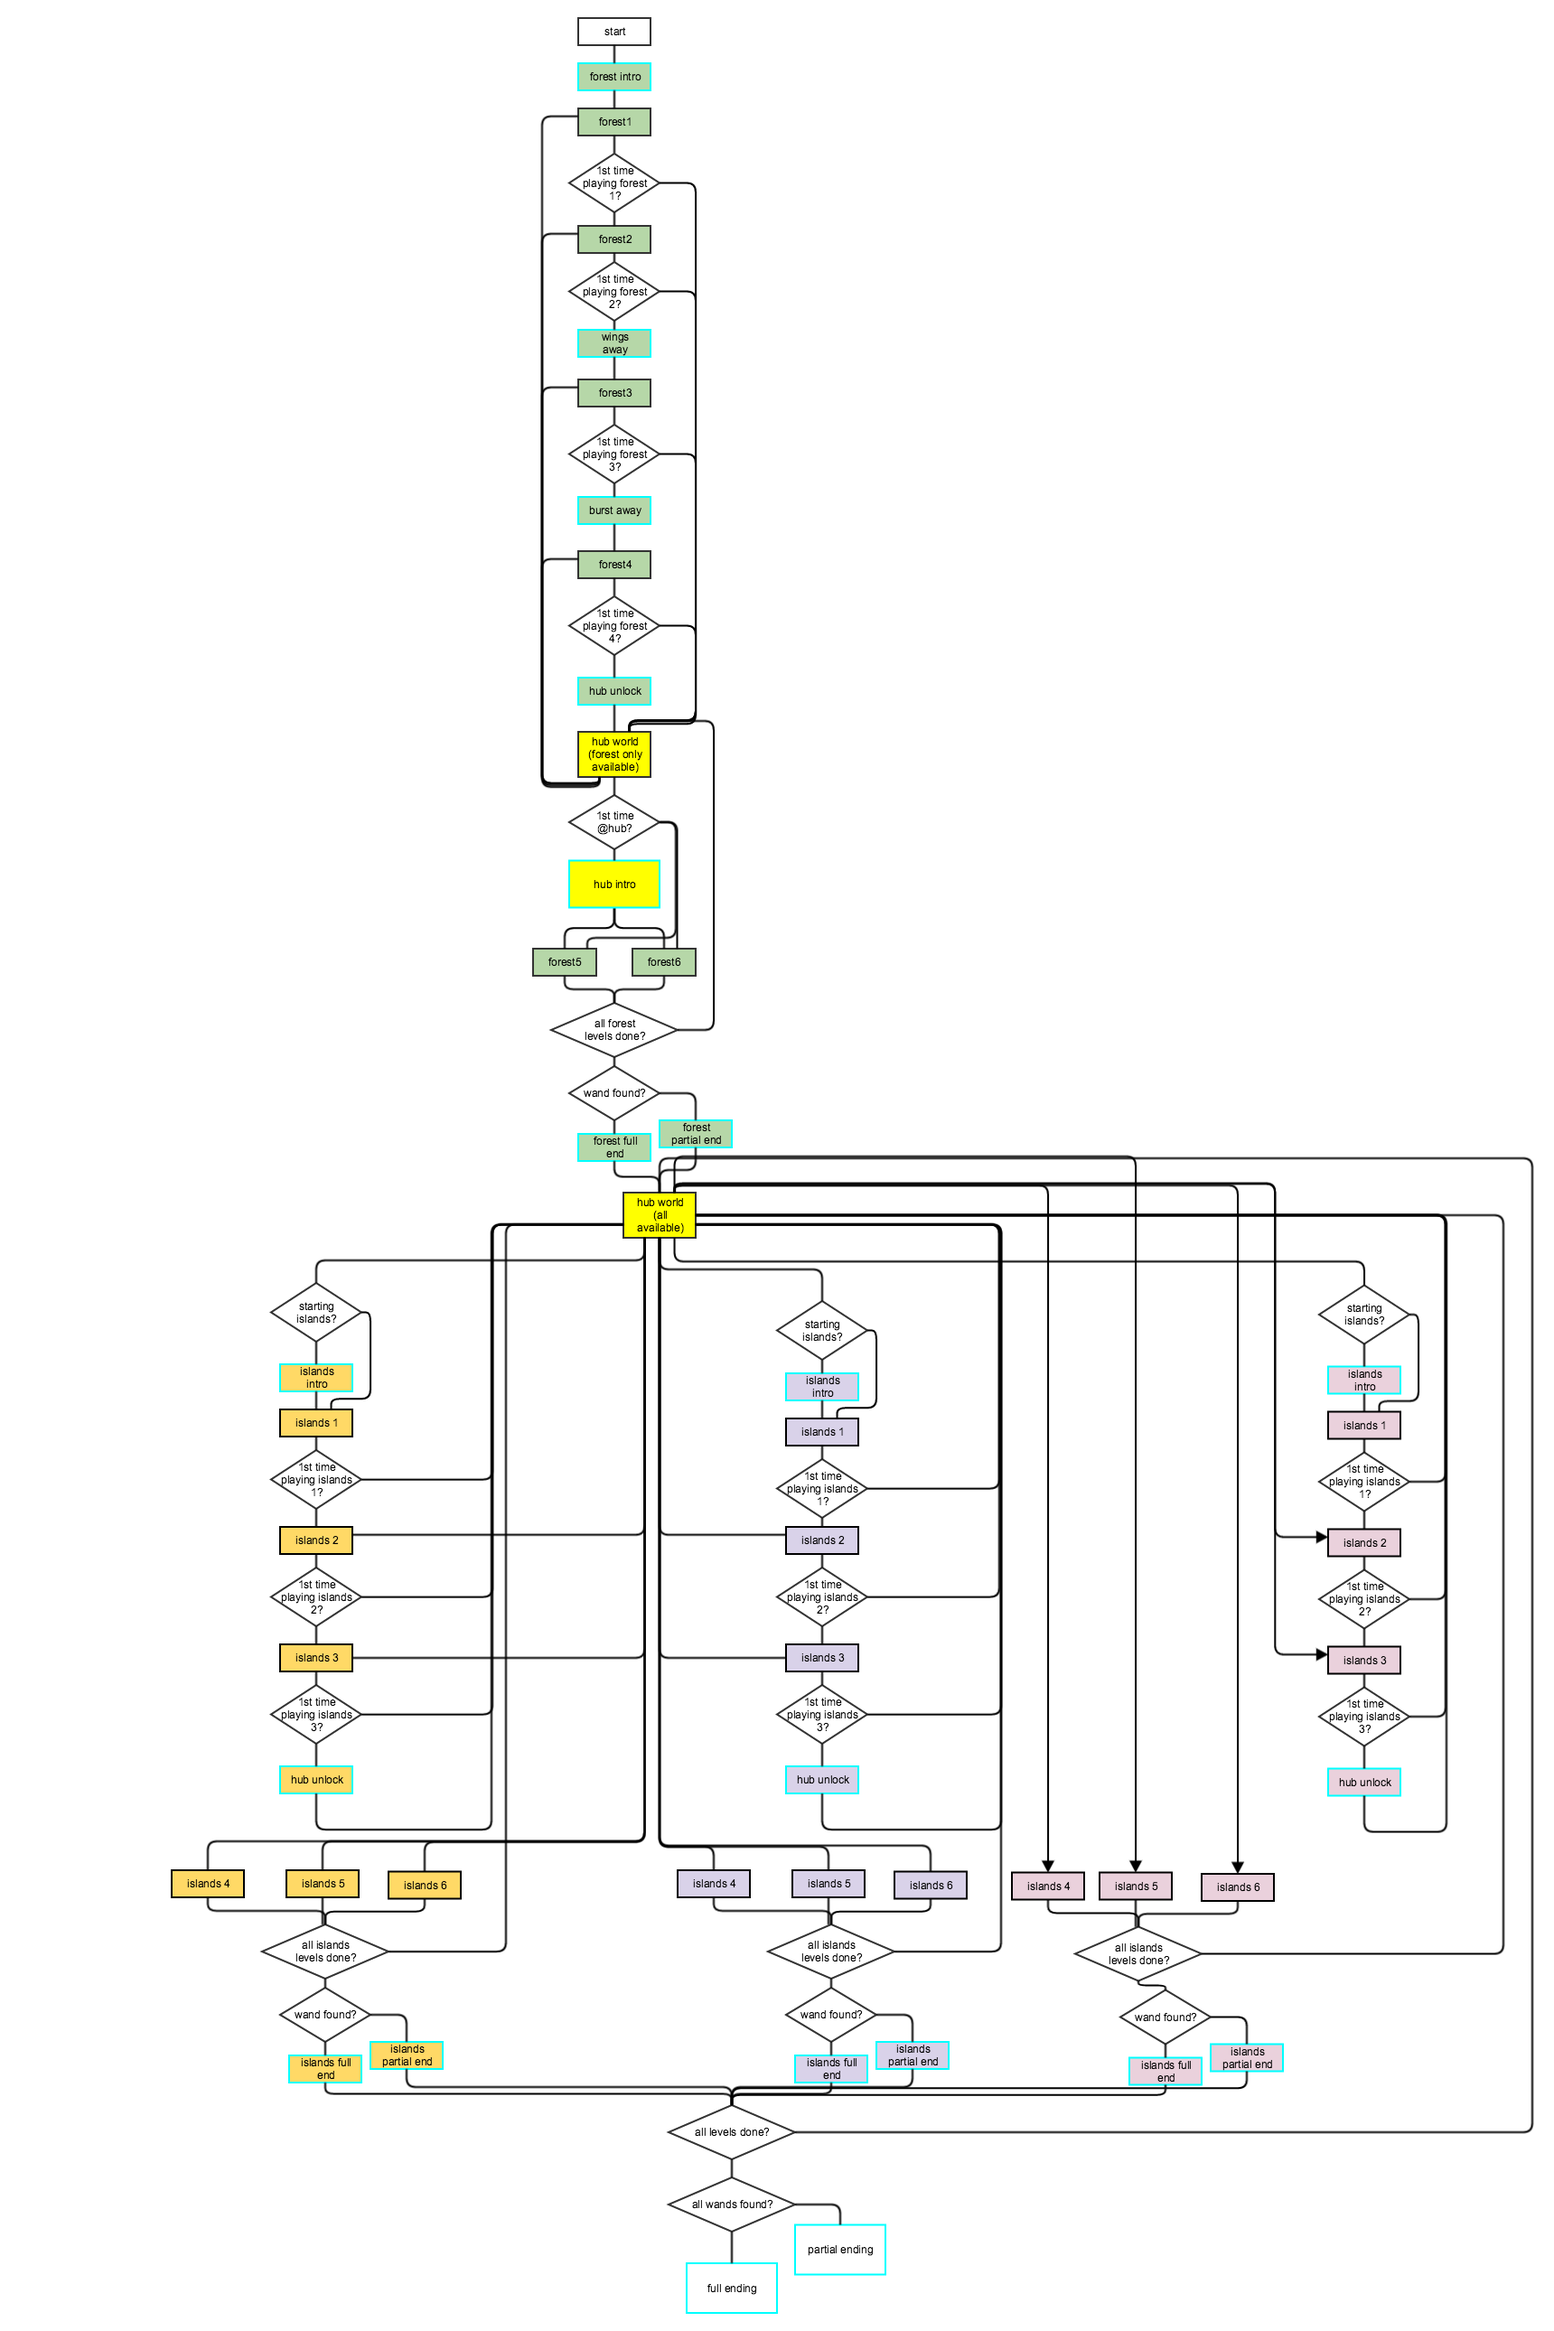
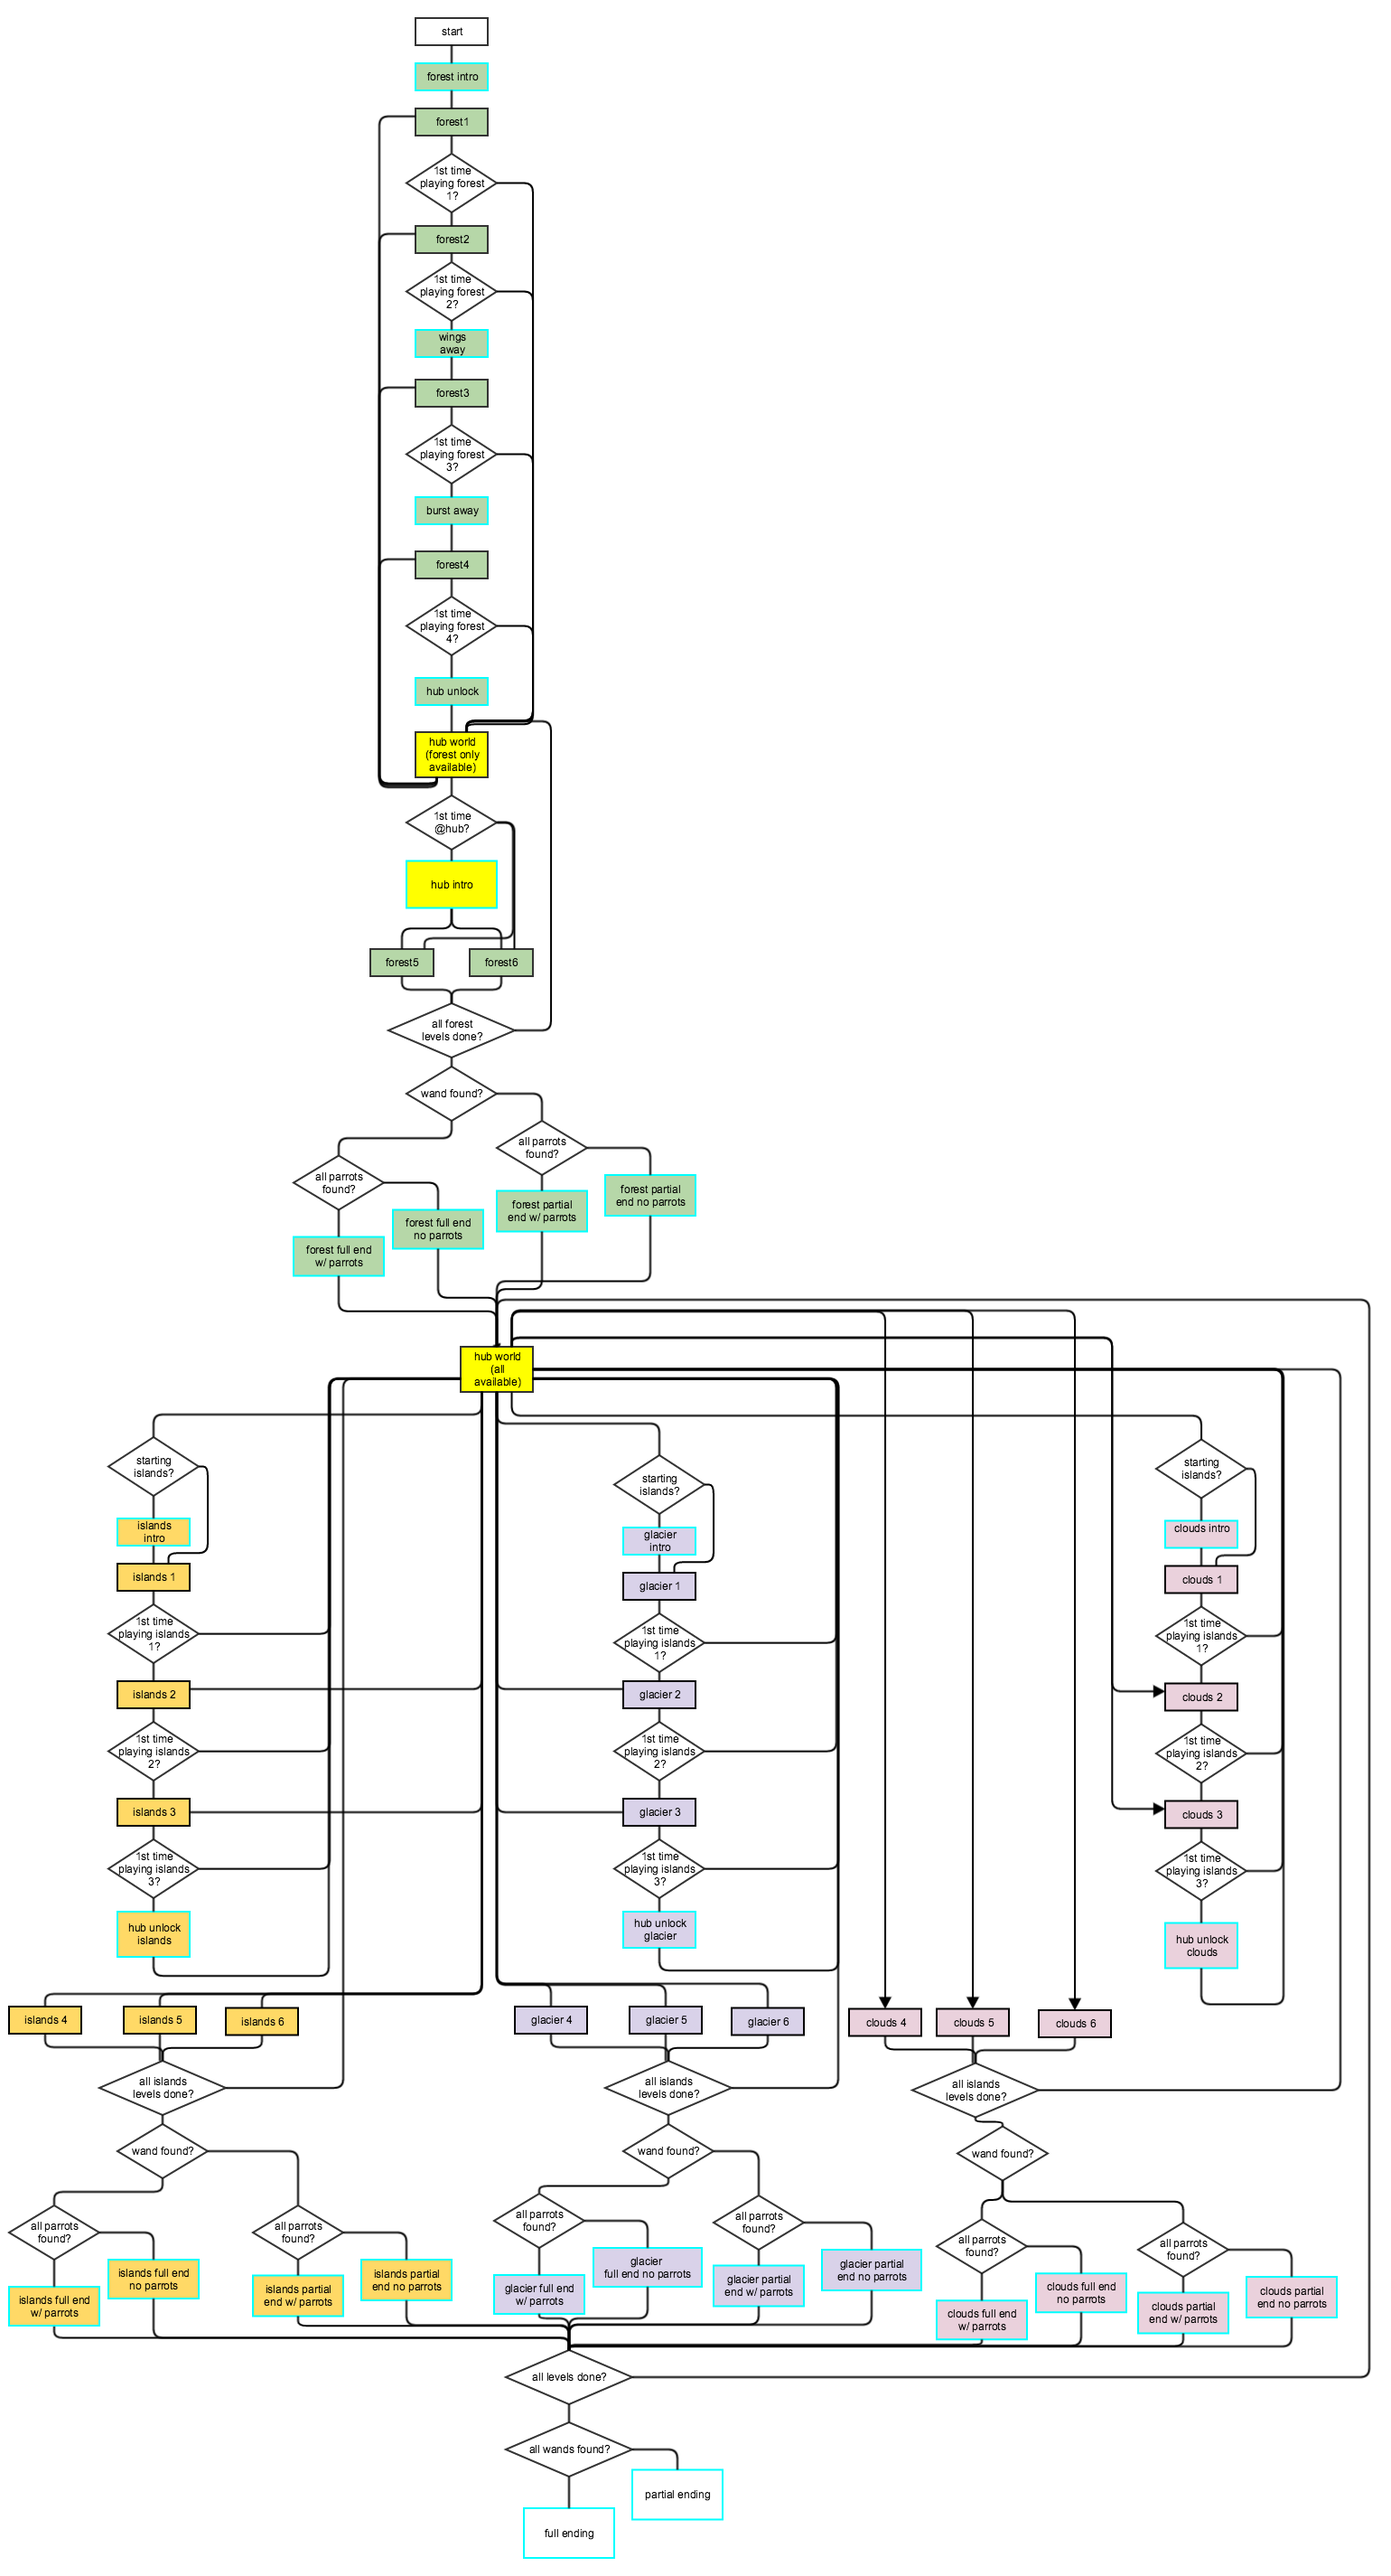
updated readme

Changed region(s): [[0.0, 0.0, 0.9974, 0.9922]]

diff --git a/README.md b/README.md
@@ -5,3 +5,33 @@ Simple browser based project to help prototype the story flow of Newt One.
 see http://devnari.com and https://facebook.com/devnari for more on the game.
 
 ![story flow](images/newtOneStoryFlow_0.png)
+
+Cutscenes:
+---------
+* Forest Intro
+* Wings fly away (after Forest 2)
+* Burst gone (after Forest 3)
+* Hub unlock Forest
+* Hub Intro overlay
+* Forest Full end with parrots
+* Forest Full end without parrots
+* Forest partial end with parrots
+* Forest Partial end without parrots
+* Islands Intro
+* Hub unlock Islands
+* Islands Full end with parrots
+* Islands Full end without parrots
+* Islands partial end with parrots
+* Islands Partial end without parrots
+* Glacier Intro
+* Hub unlock Glacier
+* Glacier Full end with parrots
+* Glacier Full end without parrots
+* Glacier partial end with parrots
+* Glacier Partial end without parrots
+* Clouds Intro
+* Hub unlock Clouds
+* Game Full end with parrots
+* Game Full end without parrots
+* Game Partial end with parrots
+* Game Partial end without parrots
